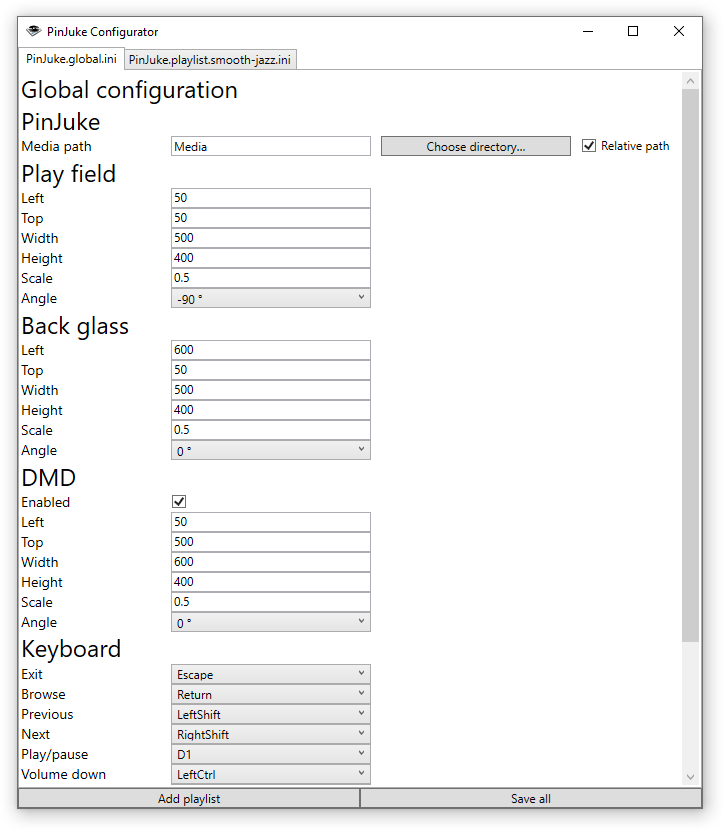
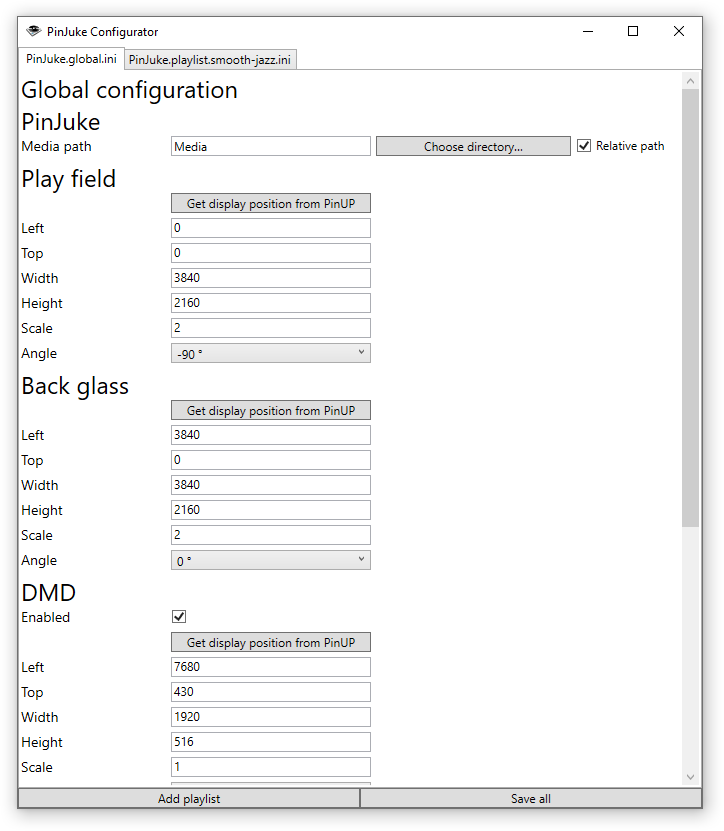
Button to import position from PinUP

diff --git a/src/PinJuke/Configurator/View/PathControl.xaml b/src/PinJuke/Configurator/View/PathControl.xaml
@@ -1,12 +1,11 @@
-<view:BaseControl x:Class="PinJuke.Configurator.View.PathControl"
+<local:ConfiguratorControl x:Class="PinJuke.Configurator.View.PathControl"
     xmlns="http://schemas.microsoft.com/winfx/2006/xaml/presentation"
     xmlns:x="http://schemas.microsoft.com/winfx/2006/xaml"
     xmlns:mc="http://schemas.openxmlformats.org/markup-compatibility/2006" 
     xmlns:d="http://schemas.microsoft.com/expression/blend/2008" 
     xmlns:local="clr-namespace:PinJuke.Configurator.View"
-    xmlns:view="clr-namespace:PinJuke.View"
     mc:Ignorable="d" 
-    d:DesignHeight="30" d:DesignWidth="800">
+    d:DesignHeight="20" d:DesignWidth="800">
     <Grid>
         <Grid.ColumnDefinitions>
             <ColumnDefinition Width="200"/>
@@ -18,8 +17,8 @@
         </Grid.RowDefinitions>
 
         <TextBox VerticalContentAlignment="Center" Text="{Binding Path, Mode=TwoWay}"/>
-        <Button Grid.Column="1" Margin="10,0,0,0" Content="{Binding ChooseText}" Click="Choose_Click"/>
-        <CheckBox Grid.Column="2" Margin="10,0,0,0" VerticalAlignment="Center" Content="{Binding RelativePathText}"
+        <Button Grid.Column="1" Margin="5,0,0,0" Content="{Binding ChooseText}" Click="Choose_Click"/>
+        <CheckBox Grid.Column="2" Margin="5,0,0,0" VerticalAlignment="Center" Content="{Binding RelativePathText}"
                   IsChecked="{Binding Relative, Mode=TwoWay}" IsEnabled="{Binding RelativeEnabled}"/>
     </Grid>
-</view:BaseControl>
+</local:ConfiguratorControl>

diff --git a/src/PinJuke/Configurator/View/RowControl.xaml b/src/PinJuke/Configurator/View/RowControl.xaml
@@ -1,13 +1,12 @@
-<view:BaseControl x:Class="PinJuke.Configurator.View.RowControl"
+<local:ConfiguratorControl x:Class="PinJuke.Configurator.View.RowControl"
     xmlns="http://schemas.microsoft.com/winfx/2006/xaml/presentation"
     xmlns:x="http://schemas.microsoft.com/winfx/2006/xaml"
     xmlns:mc="http://schemas.openxmlformats.org/markup-compatibility/2006" 
     xmlns:d="http://schemas.microsoft.com/expression/blend/2008" 
     xmlns:local="clr-namespace:PinJuke.Configurator.View"
-    xmlns:view="clr-namespace:PinJuke.View"
     mc:Ignorable="d" 
     d:DesignHeight="450" d:DesignWidth="800">
-    <Grid Height="20">
+    <Grid Height="20" Margin="0,0,0,5">
         <Grid.ColumnDefinitions>
             <ColumnDefinition Width="150"/>
             <ColumnDefinition Width="Auto"/>
@@ -18,8 +17,8 @@
 
         <TextBlock FontSize="14" Text="{Binding LabelText}"/>
 
-        <ContentControl Grid.Column="1" x:Name="Container">
+        <ContentControl Grid.Column="1" x:Name="Container" IsTabStop="False">
         </ContentControl>
       
     </Grid>
-</view:BaseControl>
+</local:ConfiguratorControl>

diff --git a/src/PinJuke/Configurator/View/BoolControl.xaml b/src/PinJuke/Configurator/View/BoolControl.xaml
@@ -1,12 +1,11 @@
-<view:BaseControl x:Class="PinJuke.Configurator.View.BoolControl"
+<local:ConfiguratorControl x:Class="PinJuke.Configurator.View.BoolControl"
     xmlns="http://schemas.microsoft.com/winfx/2006/xaml/presentation"
     xmlns:x="http://schemas.microsoft.com/winfx/2006/xaml"
     xmlns:mc="http://schemas.openxmlformats.org/markup-compatibility/2006" 
     xmlns:d="http://schemas.microsoft.com/expression/blend/2008" 
     xmlns:local="clr-namespace:PinJuke.Configurator.View"
-    xmlns:view="clr-namespace:PinJuke.View"
     mc:Ignorable="d" 
-    d:DesignHeight="30" d:DesignWidth="800">
+    d:DesignHeight="20" d:DesignWidth="800">
     <Grid>
         <Grid.ColumnDefinitions>
             <ColumnDefinition Width="200"/>
@@ -18,4 +17,4 @@
         <CheckBox VerticalAlignment="Center" Content="{Binding LabelText}"
                   IsChecked="{Binding Value, Mode=TwoWay}" IsEnabled="{Binding Enabled}"/>
     </Grid>
-</view:BaseControl>
+</local:ConfiguratorControl>

diff --git a/src/PinJuke/Configurator/View/SelectControl.xaml b/src/PinJuke/Configurator/View/SelectControl.xaml
@@ -1,12 +1,11 @@
-<view:BaseControl x:Class="PinJuke.Configurator.View.SelectControl"
+<local:ConfiguratorControl x:Class="PinJuke.Configurator.View.SelectControl"
     xmlns="http://schemas.microsoft.com/winfx/2006/xaml/presentation"
     xmlns:x="http://schemas.microsoft.com/winfx/2006/xaml"
     xmlns:mc="http://schemas.openxmlformats.org/markup-compatibility/2006" 
     xmlns:d="http://schemas.microsoft.com/expression/blend/2008" 
     xmlns:local="clr-namespace:PinJuke.Configurator.View"
-    xmlns:view="clr-namespace:PinJuke.View"
     mc:Ignorable="d" 
-    d:DesignHeight="30" d:DesignWidth="800">
+    d:DesignHeight="20" d:DesignWidth="800">
     <Grid>
         <Grid.ColumnDefinitions>
             <ColumnDefinition Width="200"/>
@@ -17,4 +16,4 @@
 
         <ComboBox ItemsSource="{Binding Items}" SelectedIndex="{Binding SelectedIndex, Mode=OneWay}" SelectionChanged="ComboBox_SelectionChanged"/>
     </Grid>
-</view:BaseControl>
+</local:ConfiguratorControl>

diff --git a/src/PinJuke/Configurator/View/GroupControl.xaml b/src/PinJuke/Configurator/View/GroupControl.xaml
@@ -1,10 +1,9 @@
-<view:BaseControl x:Class="PinJuke.Configurator.View.GroupControl"
+<local:ConfiguratorControl x:Class="PinJuke.Configurator.View.GroupControl"
     xmlns="http://schemas.microsoft.com/winfx/2006/xaml/presentation"
     xmlns:x="http://schemas.microsoft.com/winfx/2006/xaml"
     xmlns:mc="http://schemas.openxmlformats.org/markup-compatibility/2006" 
     xmlns:d="http://schemas.microsoft.com/expression/blend/2008" 
     xmlns:local="clr-namespace:PinJuke.Configurator.View"
-    xmlns:view="clr-namespace:PinJuke.View"
     mc:Ignorable="d" 
     d:DesignHeight="450" d:DesignWidth="800">
     <Grid>
@@ -22,4 +21,4 @@
         </StackPanel>
       
     </Grid>
-</view:BaseControl>
+</local:ConfiguratorControl>

diff --git a/src/PinJuke/Configurator/View/ButtonControl.xaml b/src/PinJuke/Configurator/View/ButtonControl.xaml
@@ -1,4 +1,4 @@
-<local:ConfiguratorControl x:Class="PinJuke.Configurator.View.NumberControl"
+<local:ConfiguratorControl x:Class="PinJuke.Configurator.View.ButtonControl"
     xmlns="http://schemas.microsoft.com/winfx/2006/xaml/presentation"
     xmlns:x="http://schemas.microsoft.com/winfx/2006/xaml"
     xmlns:mc="http://schemas.openxmlformats.org/markup-compatibility/2006" 
@@ -14,6 +14,6 @@
             <RowDefinition Height="*"/>
         </Grid.RowDefinitions>
 
-        <TextBox IsEnabled="{Binding Enabled}" Text="{Binding ValueString, Mode=TwoWay}"/>
+        <Button Content="{Binding Text}" Click="Button_Click"/>
     </Grid>
 </local:ConfiguratorControl>

diff --git a/src/PinJuke/Configurator/Factory/GlobalGroupControlFactory.cs b/src/PinJuke/Configurator/Factory/GlobalGroupControlFactory.cs
@@ -1,5 +1,6 @@
 using PinJuke.Configuration;
 using PinJuke.Configurator.View;
+using PinJuke.Ini;
 using System;
 using System.Collections.Generic;
 using System.Linq;
@@ -12,7 +13,7 @@ namespace PinJuke.Configurator.Factory
 {
     public class GlobalGroupControlFactory : GroupControlFactory
     {
-        public GlobalGroupControlFactory(Parser parser)
+        public GlobalGroupControlFactory(Parser parser, PinUpPlayerIniReader pinUpReader)
         {
             // Some cases of Key share the same value.
             var keys = Enum.GetNames<Key>().Select(name => new Item(name, Enum.Parse<Key>(name))).ToList();
@@ -32,15 +33,15 @@ namespace PinJuke.Configurator.Factory
                         },
                     ]
                 },
-                new WindowGroupControlFactory(parser, "PlayField", false)
+                new WindowGroupControlFactory(parser, "PlayField", false, pinUpReader, "INFO3")
                 {
                     LabelText = "Play field",
                 },
-                new WindowGroupControlFactory(parser, "BackGlass", false)
+                new WindowGroupControlFactory(parser, "BackGlass", false, pinUpReader, "INFO2")
                 {
                     LabelText = "Back glass",
                 },
-                new WindowGroupControlFactory(parser, "DMD", true)
+                new WindowGroupControlFactory(parser, "DMD", true, pinUpReader, "INFO1")
                 {
                     LabelText = "DMD",
                 },
@@ -136,7 +137,7 @@ namespace PinJuke.Configurator.Factory
 
     public class WindowGroupControlFactory : GroupControlFactory
     {
-        public WindowGroupControlFactory(Parser parser, string sectionName, bool enabledAvailable)
+        public WindowGroupControlFactory(Parser parser, string sectionName, bool enabledAvailable, PinUpPlayerIniReader pinUpReader, string pinUpSectionName)
         {
             ControlFactory<UIElement>[] enabledControls = enabledAvailable
                 ? [
@@ -150,6 +151,33 @@ namespace PinJuke.Configurator.Factory
 
             Controls = [
                 ..enabledControls,
+                new ButtonControlFactory()
+                {
+                    LabelText = "",
+                    Text = "Get display position from PinUP",
+                    ClickHandler = (buttonControl) =>
+                    {
+                        (int, int, int, int)? position;
+                        try
+                        {
+                            position = pinUpReader.FindPosition(pinUpSectionName);
+                        }
+                        catch (IniIoException ex)
+                        {
+                            MessageBox.Show(string.Format(Strings.ErrorReadingFile, ex.FilePath), AppDomain.CurrentDomain.FriendlyName);
+                            return;
+                        }
+                        if (position == null)
+                        {
+                            MessageBox.Show(string.Format(Strings.PathNotFound, "PinUpPlayer.ini"), AppDomain.CurrentDomain.FriendlyName);
+                            return;
+                        }
+                        ((NumberControl)buttonControl.GetSibling(1)).Value = position.Value.Item1;
+                        ((NumberControl)buttonControl.GetSibling(2)).Value = position.Value.Item2;
+                        ((NumberControl)buttonControl.GetSibling(3)).Value = position.Value.Item3;
+                        ((NumberControl)buttonControl.GetSibling(4)).Value = position.Value.Item4;
+                    },
+                },
                 new NumberControlFactory()
                 {
                     LabelText = "Left",

diff --git a/src/PinJuke/Configurator/View/ConfiguratorControl.cs b/src/PinJuke/Configurator/View/ConfiguratorControl.cs
@@ -1,0 +1,60 @@
+using PinJuke.View;
+using System;
+using System.Collections.Generic;
+using System.Linq;
+using System.Text;
+using System.Threading.Tasks;
+using System.Windows;
+
+namespace PinJuke.Configurator.View
+{
+    public class ConfiguratorControl : BaseControl
+    {
+        public ConfiguratorControl()
+        {
+        }
+
+        private T? FindParent<T>() where T : FrameworkElement
+        {
+            FrameworkElement? element = Parent as FrameworkElement;
+            for (; ; )
+            {
+                if (element == null || element is T)
+                {
+                    return (T?)element;
+                }
+                element = element.Parent as FrameworkElement;
+            }
+        }
+
+        public ConfiguratorControl GetSibling(int n)
+        {
+            var rowControl = FindParent<RowControl>();
+            if (rowControl == null)
+            {
+                throw new InvalidOperationException("Cannot get sibling. Control is not included in a RowControl.");
+            }
+            var groupControl = rowControl.FindParent<GroupControl>();
+            if (groupControl == null)
+            {
+                throw new InvalidOperationException("Cannot get sibling. No parent group found.");
+            }
+            var index = groupControl.Controls.Children.IndexOf(rowControl);
+            if (index == -1)
+            {
+                throw new InvalidOperationException("Cannot get sibling. Did not find the rowControl in the collection.");
+            }
+            var rowSibling = groupControl.Controls.Children[index + n] as RowControl;
+            if (rowSibling == null)
+            {
+                throw new InvalidOperationException("Cannot get sibling. Sibling control is of unexcpected type.");
+            }
+            var sibling = rowSibling.Control as ConfiguratorControl;
+            if (sibling == null)
+            {
+                throw new InvalidOperationException("Cannot get sibling. Sibling row control has no control.");
+            }
+            return sibling;
+        }
+    }
+}

diff --git a/src/PinJuke/Configurator/PinUpPlayerIniReader.cs b/src/PinJuke/Configurator/PinUpPlayerIniReader.cs
@@ -1,0 +1,61 @@
+using PinJuke.Configuration;
+using PinJuke.Ini;
+using System;
+using System.Collections.Generic;
+using System.IO;
+using System.Linq;
+using System.Text;
+using System.Threading.Tasks;
+
+namespace PinJuke.Configurator
+{
+    public class PinUpPlayerIniReader
+    {
+        public IReadOnlyList<string> Paths { get; }
+        protected IniReader IniReader { get; } = new();
+        protected Parser Parser { get; } = new();
+
+        public PinUpPlayerIniReader(List<string> paths)
+        {
+            Paths = new List<string>(paths).AsReadOnly();
+        }
+
+        public (int, int, int, int)? FindPosition(string sectionName)
+        {
+            var path = Search();
+            if (path == null)
+            {
+                return null;
+            }
+            var iniDocument = IniReader.Read(path);
+            var section = iniDocument[sectionName];
+            var left = Parser.ParseInt(section["ScreenXPos"]);
+            var top = Parser.ParseInt(section["ScreenYPos"]);
+            var width = Parser.ParseInt(section["ScreenWidth"]);
+            var height = Parser.ParseInt(section["ScreenHeight"]);
+            if (left == null || top == null || width == null || height == null)
+            {
+                return null;
+            }
+            return ((int)left, (int)top, (int)width, (int)height);
+        }
+
+        public string? Search()
+        {
+            foreach (var eachPath in Paths)
+            {
+                var path = eachPath;
+                while (!path.IsNullOrEmpty())
+                {
+                    var check = Path.Combine(path, "PinUPSystem", "PinUpPlayer.ini");
+                    if (File.Exists(check))
+                    {
+                        return check;
+                    }
+                    path = Path.GetDirectoryName(path);
+                }
+            }
+            return null;
+        }
+    }
+}

diff --git a/src/PinJuke/Configurator/View/ButtonControl.xaml.cs b/src/PinJuke/Configurator/View/ButtonControl.xaml.cs
@@ -1,0 +1,30 @@
+using System.IO;
+using System.Windows;
+
+
+namespace PinJuke.Configurator.View
+{
+    public delegate void ButtonControlClickHandler(ButtonControl buttonControl);
+
+    public partial class ButtonControl : ConfiguratorControl
+    {
+        private string text = "";
+        public string Text
+        {
+            get => text;
+            set => SetField(ref text, value);
+        }
+
+        public ButtonControlClickHandler? ClickHandler { get; set; } = null;
+
+        public ButtonControl()
+        {
+            InitializeComponent();
+        }
+
+        private void Button_Click(object sender, RoutedEventArgs e)
+        {
+            ClickHandler?.Invoke(this);
+        }
+    }
+}

diff --git a/src/PinJuke/Strings.Designer.cs b/src/PinJuke/Strings.Designer.cs
@@ -142,6 +142,15 @@ namespace PinJuke {
         }
         
         /// <summary>
+        ///   Looks up a localized string similar to &quot;{0}&quot; not found..
+        /// </summary>
+        internal static string PathNotFound {
+            get {
+                return ResourceManager.GetString("PathNotFound", resourceCulture);
+            }
+        }
+        
+        /// <summary>
         ///   Looks up a localized string similar to Relative path.
         /// </summary>
         internal static string RelativePath {

diff --git a/src/PinJuke/Configurator/ConfiguratorWindow.xaml.cs b/src/PinJuke/Configurator/ConfiguratorWindow.xaml.cs
@@ -23,8 +23,13 @@ namespace PinJuke.Configurator
             InitializeComponent();
 
             var parser = new Configuration.Parser();
+            var pinUpReader = new PinUpPlayerIniReader(new()
+            {
+                Directory.GetCurrentDirectory(),
+                @"C:\vPinball"
+            });
 
-            GlobalGroupControlFactory = new(parser);
+            GlobalGroupControlFactory = new(parser, pinUpReader);
             PlaylistGroupControlFactory = new(parser);
 
             AddTabItems();
